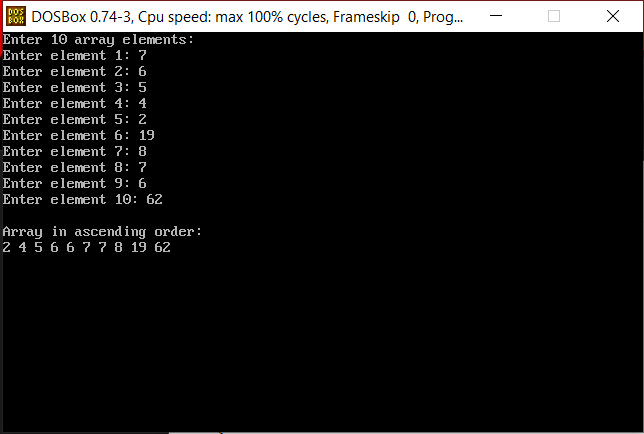
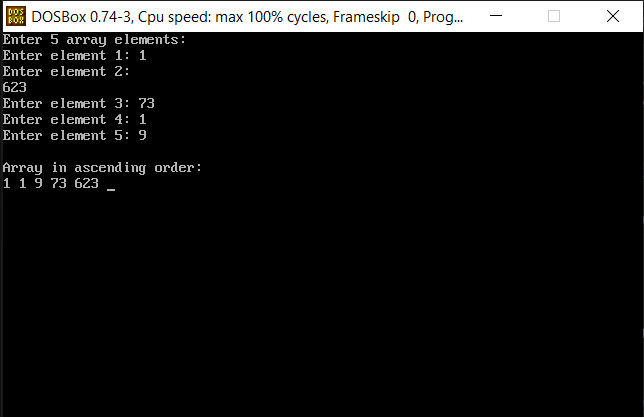
updated 1-D.html

Changed region(s): [[0.0, 0.0, 1.0, 0.4676], [0.0, 0.3741, 1.0, 1.0], [0.0, 0.53, 0.3106, 0.5923]]

diff --git a/1-D.html b/1-D.html
@@ -18,70 +18,70 @@
 
                 <tr>
                     <td>1</td>
-                    <td></td>
+                    <td>Enter an array from user and display all the value ?</td>
                     <td><a href="#card1">Solution</a></td>
                 </tr>
                 <tr>
                     <td>2</td>
-                    <td></td>
+                    <td>Enter an array from user and print the array in reverse order ?</td>
                     <td><a href="#card2">Solution</a></td>
                 </tr>
                 <tr>
                     <td>3</td>
-                    <td></td>
+                    <td>Enter an array from user and copy the array into second array ?</td>
                     <td><a href="#card3">Solution</a></td>
                 </tr>
                 <tr>
                     <td>4</td>
-                    <td></td>
+                    <td>Enter an array from user and copy it into another array in reverse order ?</td>
                     <td><a href="#card4">Solution</a></td>
                 </tr>
                 <tr>
                     <td>5</td>
-                    <td></td>
+                    <td>Enter an array from user and print the number which is even ?</td>
                     <td><a href="#card5">Solution</a></td>
                 </tr>
                 <tr>
                     <td>6</td>
-                    <td></td>
+                    <td>Enter an array from user and print the number which is positive ?</td>
                     <td><a href="#card6" onclick="">Solution</a></td>
                 </tr>
                 <tr>
                     <td>7</td>
-                    <td></td>
+                    <td>Enter an array from user and square all the values of array ?</td>
                     <td><a href="#card7">Solution</a></td>
                 </tr>
                 <tr>
                     <td>8</td>
-                    <td></td>
+                    <td>Enter 5 values of array from user and print odd number of array ?</td>
                     <td><a href="#card8">Solution</a></td>
                 </tr>
                 <tr>
                     <td>9</td>
-                    <td></td>
+                    <td>Enter 5 values of array from user and add all values ?</td>
                     <td><a href="#card9">Solution</a></td>
                 </tr>
                 <tr>
                     <td>10</td>
-                    <td></td>
+                    <td>Enter 5 values of array from user, enter a value from user and search this value in array, if value is found then print “found” or not then print “not found”?</td>
                     <td><a href="#card10">Solution</a></td>
                 </tr>  
 
                  <tr>
                     <td>11</td>
-                    <td></td>
+                    <td>Enter five values of array and sort in ascending order ?</td>
                     <td><a href="#card11">Solution</a></td>
                 </tr>  
 
                 <tr>
                     <td>12</td>
-                    <td></td>
+                    <td>Find maximum values of array ?</td>
                     <td><a href="#card12">Solution</a></td>
                 </tr>  
 
                 <tr>
                     <td>13</td>
-                    <td></td>
+                    <td>Find minimum values of array ?</td>
                     <td><a href="#card13">Solution</a></td>
                 </tr>  
 
@@ -91,7 +91,7 @@
             
            
                 <div class = "Solutions" id="card1">
-                <h4></h4>
+                <h4>Enter an array from user and display all the value ?</h4>
                 <p>#include &lt;stdio.h&gt;
 #include &lt;conio.h&gt;
 #include &lt;dos.h&gt;
@@ -117,7 +117,7 @@ void main() {
                 <img src="Programs/single dimesion arryas/outputs/SA1.PNG" alt="">
             </div>
             <div class = "Solutions"  id="card2">
-                <h4></h4>
+                <h4>Enter an array from user and print the array in reverse order ?</h4>
                 <p>#include &lt;stdio.h&gt;
 #include &lt;conio.h&gt;
 #include &lt;dos.h&gt;
@@ -142,7 +142,7 @@ void main() {
                 <img src="Programs/single dimesion arryas/outputs/SA2.PNG" alt="">
             </div>
             <div class = "Solutions"  id="card3">
-                <h4></h4>
+                <h4>Enter an array from user and copy the array into second array ?</h4>
                 <p>#include &lt;stdio.h&gt; 
 #include &lt;conio.h&gt;
 #include &lt;dos.h&gt;
@@ -172,7 +172,7 @@ void main() {
                 <img src="Programs/single dimesion arryas/outputs/SA3.PNG" alt="">
             </div>
             <div class = "Solutions" id="card4">
-                <h4></h4>
+                <h4>Enter an array from user and copy it into another array in reverse order ?</h4>
                 <p>#include  &lt;stdio.h&gt;
 #include &lt;conio.h&gt;
 #include &lt;dos.h&gt;
@@ -202,7 +202,7 @@ void main() {
                 <img src="Programs/single dimesion arryas/outputs/SA4.PNG" alt="">
             </div>
             <div class = "Solutions"  id="card5">
-                <h4></h4>
+                <h4>Enter an array from user and print the number which is even ?</h4>
                 <p>#include &lt;stdio.h&gt;
 #include &lt;conio.h&gt;
 #include &lt;dos.h&gt;
@@ -229,7 +229,7 @@ void main() {
                 <img src="Programs/single dimesion arryas/outputs/SA5.PNG" alt="">
             </div>
             <div  class = "Solutions" id="card6">
-                <h4></h4>
+                <h4>Enter an array from user and print the number which is positive ?</h4>
                 <p>#include &lt;stdio.h&lt;
 #include &lt;conio.h&lt;
 #include &lt;dos.h&lt;
@@ -256,7 +256,7 @@ void main() {
                 <img src="Programs/single dimesion arryas/outputs/SA6.PNG" alt="blink could not be shown in image format">
             </div>
             <div  class = "Solutions" id="card7">
-                <h4></h4>
+                <h4>Enter an array from user and square all the values of array ?</h4>
                 <p>#include &lt;stdio.h&gt;
 #include &lt;conio.h&gt;
 #include &lt;dos.h&gt;
@@ -281,23 +281,23 @@ void main() {
                 <img src="Programs/single dimesion arryas/outputs/SA7.PNG" alt="">
             </div>
             <div class = "Solutions" id="card8">
-                <h4></h4>
+                <h4>Enter 5 values of array from user and print odd number of array ?</h4>
                 <p>#include &lt;stdio.h&gt;
 #include &lt;conio.h&gt;
 #include &lt;dos.h&gt;
 
 void main() {
-    int arr[10], i;
+    int arr[5], i;
     clrscr();
     
-    printf("Enter 10 array elements:\n");
-    for(i = 0; i &lt; 10; i++) {
+    printf("Enter 5 array elements:\n");
+    for(i = 0; i &lt; 5; i++) {
         printf("Enter element %d: ", i + 1);
         scanf("%d", &arr[i]);
     }
     
     printf("\nOdd numbers in the array:\n");
-    for(i = 0; i &lt; 10; i++) {
+    for(i = 0; i &lt; 5; i++) {
         if(arr[i] % 2) {
             printf("%d ", arr[i]);
         }
@@ -308,17 +308,17 @@ void main() {
                 <img src="Programs/single dimesion arryas/outputs/SA8.PNG" alt="">
             </div> 
             <div class = "Solutions"  id="card9">
-                <h4></h4>
+                <h4>Enter 5 values of array from user and add all values ?</h4>
                 <p>#include &lt;stdio.h&gt;
 #include &lt;conio.h&gt;
 #include &lt;dos.h&gt;
 
 void main() {
-    int arr[10], i, sum = 0;
+    int arr[5], i, sum = 0;
     clrscr();
     
-    printf("Enter 10 array elements:\n");
-    for(i = 0; i &lt; 10; i++) {
+    printf("Enter 5 array elements:\n");
+    for(i = 0; i &lt; 5; i++) {
         printf("Enter element %d: ", i + 1);
         scanf("%d", &arr[i]);
         sum = sum + arr[i];
@@ -330,17 +330,17 @@ void main() {
                 <img src="Programs/single dimesion arryas/outputs/SA9.PNG" alt="">
             </div>
             <div  class = "Solutions" id="card10">
-                <h4></h4>
+                <h4>Enter 5 values of array from user, enter a value from user and search this value in array, if value is found then print “found” or not then print “not found”?</h4>
                 <p>#include &lt;stdio.h&gt;
 #include &lt;conio.h&gt;
 #include &lt;dos.h&gt;
 
 void main() {
-    int arr[10], i, value, found = 0;
+    int arr[5] i, value, found = 0;
     clrscr();
     
-    printf("Enter 10 array elements:\n");
-    for(i = 0; i < 10; i++) {
+    printf("Enter 5 array elements:\n");
+    for(i = 0; i < 5; i++) {
         printf("Enter element %d: ", i + 1);
         scanf("%d", &arr[i]);
     }
@@ -348,7 +348,7 @@ void main() {
     printf("Enter value to search: ");
     scanf("%d", &value);
     
-    for(i = 0; i < 10; i++) {
+    for(i = 0; i < 5; i++) {
         if(arr[i] == value) {
             found = 1;
             break;
@@ -366,23 +366,23 @@ void main() {
                 <img src="Programs/single dimesion arryas/outputs/SA10.PNG" alt="Output larger to be filled">
             </div>
             <div  class = "Solutions" id="card11">
-                <h4></h4>
+                <h4>Enter five values of array and sort in ascending order ?</h4>
                 <p>#include &lt;stdio.h&gt;
 #include &lt;conio.h&gt;
 #include &lt;dos.h&gt;
 
 void main() {
-    int arr[10], i, j, temp;
+    int arr[5], i, j, temp;
     clrscr();
     
-    printf("Enter 10 array elements:\n");
-    for(i = 0; i &lt; 10; i++) {
+    printf("Enter 5 array elements:\n");
+    for(i = 0; i &lt; 5; i++) {
         printf("Enter element %d: ", i + 1);
         scanf("%d", &arr[i]);
     }
     
-    for(i = 0; i &lt; 10; i++) {
-        for(j = i + 1; j &lt; 10; j++) {
+    for(i = 0; i &lt; 5; i++) {
+        for(j = i + 1; j &lt; 5; j++) {
             if(arr[i] &gt; arr[j]) {
                 temp = arr[i];
                 arr[i] = arr[j];
@@ -392,7 +392,7 @@ void main() {
     }
     
     printf("\nArray in ascending order:\n");
-    for(i = 0; i &lt; 10; i++) {
+    for(i = 0; i &lt; 5; i++) {
         printf("%d ", arr[i]);
     }
     
@@ -401,7 +401,8 @@ void main() {
                 <img src="Programs/single dimesion arryas/outputs/SA11.PNG" alt="Output larger to be filled">
             </div>
             <div  class = "Solutions" id="card12">
-                <h4></h4>
+                <h4>
+                Find maximum values of array ?</h4>
                 <p>#include &lt;stdio.h&gt;
 #include &lt;conio.h&gt;
 #include &lt;dos.h&gt;
@@ -429,7 +430,7 @@ void main() {
                 <img src="Programs/single dimesion arryas/outputs/SA12.PNG" alt="Output larger to be filled">
             </div>
             <div  class = "Solutions" id="card13">
-                <h4></h4>
+                <h4>Find minimum values of array ?</h4>
                 <p>#include &lt;stdio.h&gt;
 #include &lt;conio.h&gt;
 #include &lt;dos.h&gt;

diff --git a/Strings.html b/Strings.html
@@ -467,7 +467,7 @@ void main()
 
 void main()
 {
-    char str[20];
+    char str[20];S
     int i;
     clrscr();
 
